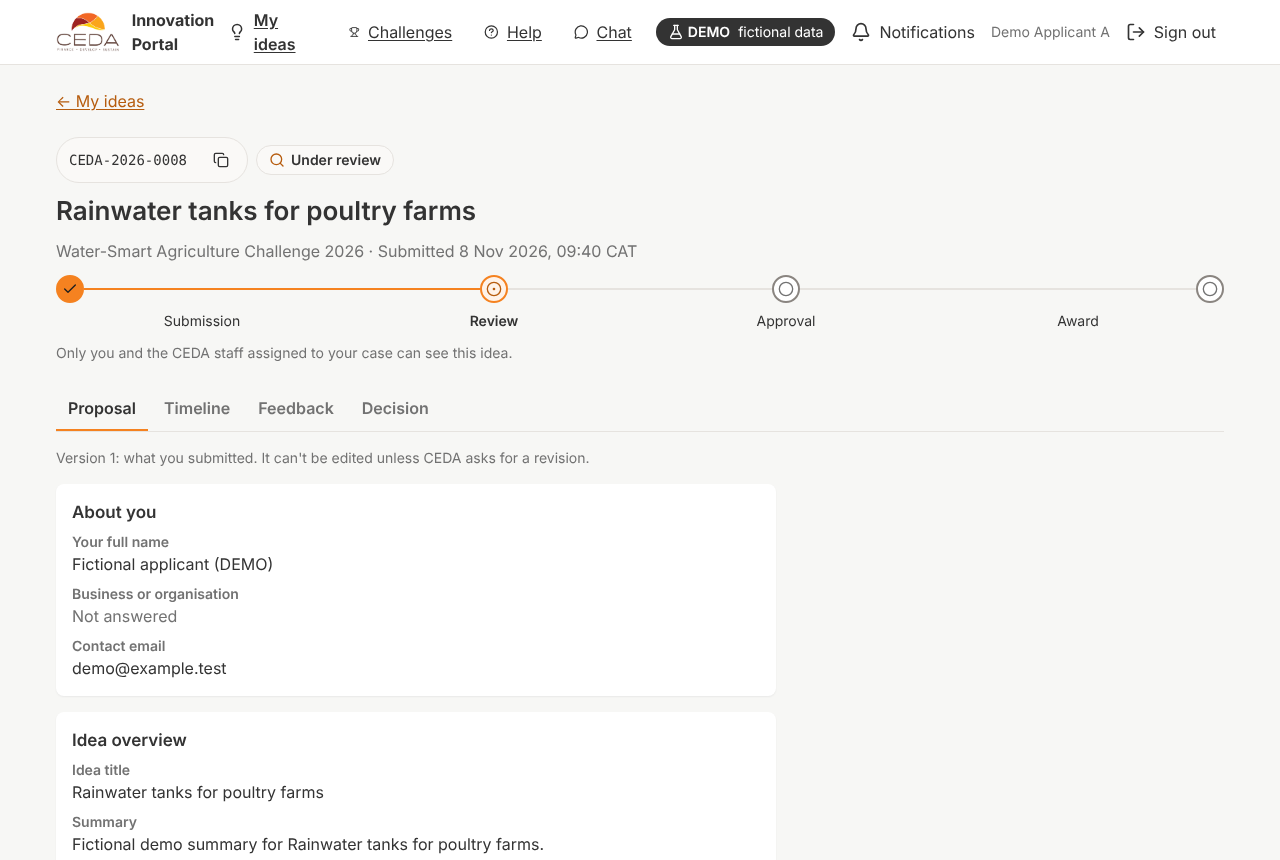
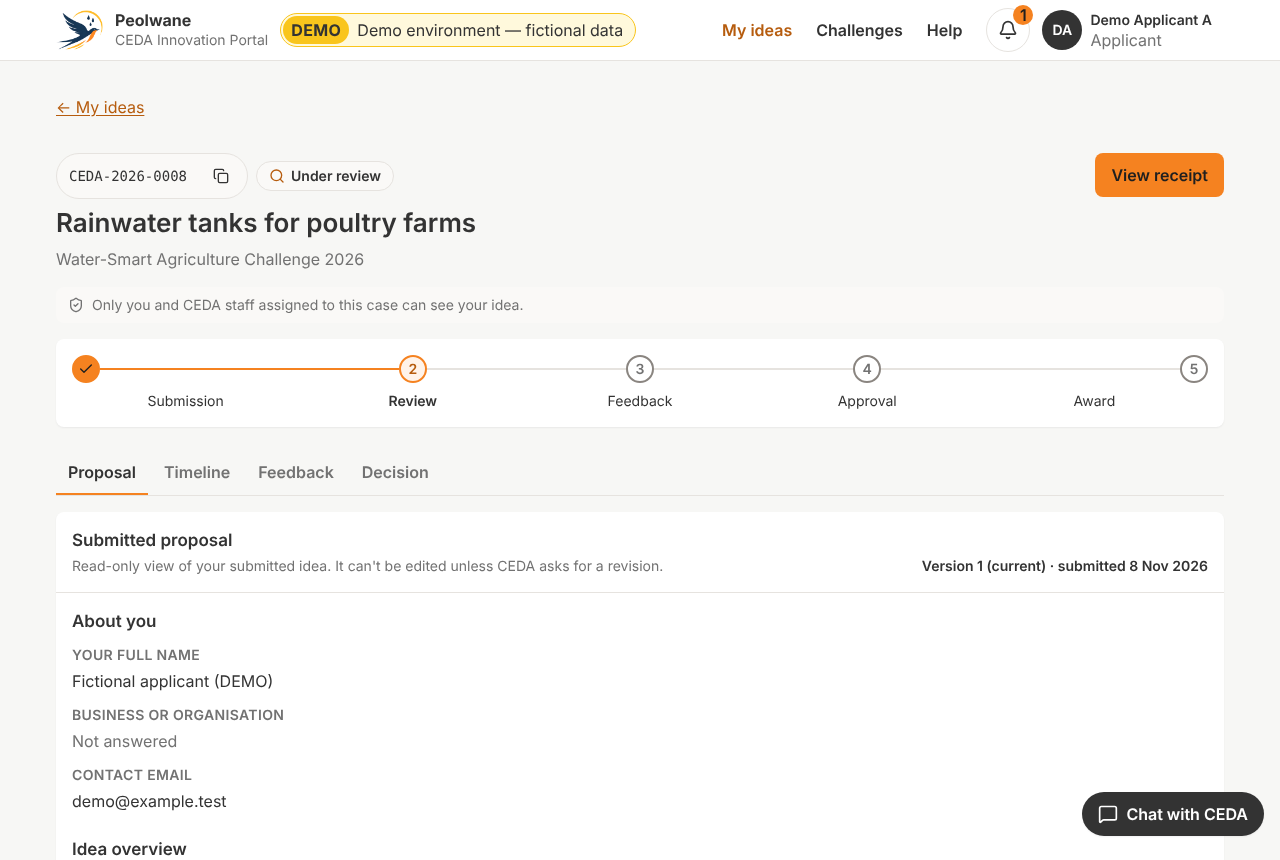
docs(submission): Peolwane line, new screenshots, hosted journey results, Peolwane AI
Claude-Session: https://claude.ai/code/session_01D4AsZS5iNugk6ixM5FfLmT

diff --git a/docs/submission/technical-proposal.md b/docs/submission/technical-proposal.md
@@ -1,8 +1,10 @@
-# CEDA Innovation Portal: technical proposal
+# Peolwane · CEDA Innovation Portal: technical proposal
 
-**Team:** Sandra (UI/UX), Obvious (frontend), Stacey (backend and database), Sylvain (integration, testing and documentation) · **Version:** draft 1, 20 Nov 2026 · **Answers:** backlog DOC-01
+**Team:** Sandra (UI/UX, until 21 Nov), Obvious (frontend), Stacey (backend and database), Sylvain (integration, testing and documentation), ABM (frontend; acting UI/UX from 21 Nov) · **Version:** draft 1, 20 Nov 2026 · **Answers:** backlog DOC-01
 **Status:** Draft for team review. It becomes final at the release (22 Nov 2026), when every **[confirm at release]** mark is resolved against the judging build. The proposal makes no claim that `docs/testing/claim-register.md` does not show as Passed.
 
+> **Peolwane is the portal's name; it is built for CEDA's Innovation Fund.** On screen it appears as "Peolwane · CEDA Innovation Portal".
+>
 > This is a demonstration prototype with fictional data only. It is designed with reference to Botswana's Data Protection Act, 2024; it makes no claim of compliance.
 
 ## 1. Summary
@@ -115,13 +117,13 @@ A typical challenge portal ends a weak application with a decision and a paragra
 3. Each assigned reviewer **verifies** each task on the V2 scorecard (Verified or Not verified, with a note). Version 1's scores stay with version 1, so progress is visible and fair.
 4. Reports can then show something most portals can't: how many ideas improved after feedback and reached a later stage.
 
-It is backed by a side-by-side comparison of V1 and V2 (INN-01) and a rule-based completeness helper on the form (INN-03). **No proposal data goes to any external AI service (D-25).** All four steps are built in the screens, and the database enforces them (C-13).
+It is backed by a side-by-side comparison of V1 and V2 (INN-01) and a rule-based completeness helper on the form (INN-03). **No proposal or case data goes to any external AI service (D-25, narrowed by BCR-004).** The one AI feature is **Peolwane AI**, an optional voice-first site-help assistant (Leseding AI Engine, Google Gemini) that receives only what a person types or says in its panel, never page, form or account data; it is shown only when its key is configured. Whether it is live on the judging build is **[confirm at release]**. All four steps are built in the screens, and the database enforces them (C-13).
 
 ## 9. Security and privacy
 
 - **Authentication:** Supabase Auth with verified email, a 12-character minimum password, a neutral "if an account exists" recovery message, rate limits and TOTP for staff. Seeded demo staff accounts are exempt behind a setting so that judges can sign in (D-07); it is switched off for any real use.
 - **Authorisation:** described in section 5, and tested from the side of the person being refused.
-- **Transport and headers:** HTTPS only (HSTS), a Content-Security-Policy that allows only our origin and Supabase, `X-Frame-Options: DENY`, `nosniff`, and strict Referrer and Permissions policies. An automated browser test confirmed all six headers on the deployed staging site (24 passed, 16 Nov, E2E run 44051061592).
+- **Transport and headers:** HTTPS only (HSTS), a Content-Security-Policy that allows only our origin, Supabase and, for Peolwane AI, the Leseding AI Engine (no third-party script), `X-Frame-Options: DENY`, `nosniff`, and strict Referrer and Permissions policies. An automated browser test confirmed all six headers on the deployed staging site (24 passed, 16 Nov, E2E run 44051061592).
 - **Secrets:** no credentials in the repository (a secret scan runs on every PR). The browser holds only the public key, and the service-role key never reaches it. Demo passwords come from the environment (D-17).
 - **Dependencies:** an audit on every PR. One high-severity advisory affects build tooling only and doesn't ship; it is recorded with a reason (ADR-001).
 - **Privacy:** purpose, access, proposed retention, processors and breach handling are described in `docs/submission/data-handling-note.md`. It is designed with reference to the Data Protection Act, 2024, with no compliance claim (D-18). Data leaves Botswana because no African Supabase region exists; this is recorded as a limitation for real use.
@@ -134,7 +136,7 @@ It is backed by a side-by-side comparison of V1 and V2 (INN-01) and a rule-based
 - A **two-connection concurrency test** for double submits.
 - **Vitest** for the frontend logic.
 - **Playwright** browser checks at 360 and 1280 px, and a security-header check against the deployed site.
-- A **real-backend browser journey**: **[confirm at release]** its result.
+- A **real-backend browser journey**: the **full main journey, steps 0–17**, passed through the real screens against the hosted staging project on 21 Nov ([run 44909107002](https://github.com/SylvainKG/CEDA-Innovation-Portal/actions/runs/44909107002), 6 passed; app built in CI), between a snapshot and a verified exact reset. Against the **deployed** staging site, the read-only part passed ([run 44953549649](https://github.com/SylvainKG/CEDA-Innovation-Portal/actions/runs/44953549649), 4 passed). Registration of a new address is Not run (no SMTP).
 
 Every claim is in `docs/testing/claim-register.md`, with its evidence and what is still Not run.
 
@@ -175,4 +177,6 @@ Every claim is in `docs/testing/claim-register.md`, with its evidence and what i
 | Region comparison with Mumbai | **Not run** |
 | Restore into a full Supabase project, and file storage backup | **Not run** |
 | Settings screens for the review quorum and the demo two-step exemption | **Not built:** stored settings changed by the backend team |
-| Hosted browser journey result, design review, plan and contact details | **[confirm at release]** |
+| Hosted browser journey | **Passed** on staging: full journey [run 44909107002](https://github.com/SylvainKG/CEDA-Innovation-Portal/actions/runs/44909107002); read-only on the deployed site [run 44953549649](https://github.com/SylvainKG/CEDA-Innovation-Portal/actions/runs/44953549649) |
+| Peolwane AI live on the judging build (Leseding key and allowlist) | **[confirm at release]** |
+| Design review, plan and contact details | **[confirm at release]** |

diff --git a/docs/submission/user-manual.md b/docs/submission/user-manual.md
@@ -1,8 +1,10 @@
-# User manual: CEDA Innovation Portal
+# User manual: Peolwane · CEDA Innovation Portal
 
 **Owner:** Sylvain (documentation lead) · **Status:** Draft, finalised at the release (22 Nov 2026) · **Answers:** backlog DOC-02 (role manual)
 Screens still being built are marked **[confirm at release]**; that line is checked against the judging build before upload. For a short tour with the demo accounts, see `docs/submission/judge-guide.md`.
 
+> **Peolwane is the portal's name; it is built for CEDA's Innovation Fund.** On screen it appears as "Peolwane · CEDA Innovation Portal".
+>
 > Demonstration with fictional data. Wording marked **Sample** (privacy notice, declaration, FAQs, contacts) is a placeholder until CEDA supplies its own.
 
 ## Contents
@@ -30,6 +32,8 @@ Screens still being built are marked **[confirm at release]**; that line is chec
 
 **Notifications.** The bell in the header shows how many updates are unread; **Notifications** lists them. The count refreshes every so often while you are signed in. **Email alerts** are optional: switch them on or off on the Notifications page **[confirm at release]**. In this demonstration they are **Simulated** (queued but not sent).
 
+**Peolwane AI** **[confirm at release]**. The **Peolwane AI** button at the bottom right of every page opens an assistant for questions about using the portal. It starts in **Voice**: tap the microphone, speak, tap again, and the answer is shown and spoken. Choose **Text** to type instead. It only receives what you say or type in its panel, never your ideas or account, so don't share personal details with it. **Esc** closes it.
+
 **Help.** **Help** holds the FAQs, regulatory contacts and how to report a problem. All times are Gaborone time (CAT).
 
 **Staff home.** Staff accounts open on **Home**: counts for your role (for example ideas awaiting screening, reviews to do, chats waiting) and a list of what to do next. Each count and item links to the screen where you act.
@@ -48,11 +52,11 @@ Screens still being built are marked **[confirm at release]**; that line is chec
 
 **Your receipt.** You get a reference such as `CEDA-2026-0009`, the version and the time received. Keep the reference. If the screen says **"Not confirmed yet"**, your connection dropped; choose **Check status**. Submitting again is safe and can never create a second idea.
 
-**Track your idea.** **My ideas** shows each idea's status (for example Submitted, Under review, Action required, Approved, Awarded) and a timeline of the five public stages: **Submission → Review → Feedback → Approval → Award**. The Feedback stage appears only if CEDA asked you something. "Action required" means CEDA is waiting for you, with a deadline.
+**Track your idea.** **My ideas** (it greets you by name) shows each idea's status (for example Submitted, Under review, Action required, Approved, Awarded) and a timeline of the five public stages: **Submission → Review → Feedback → Approval → Award**. The Feedback stage appears only if CEDA asked you something. "Action required" means CEDA is waiting for you, with a deadline.
 
 **When CEDA asks you something.**
 - **Clarification:** answer the question in a short reply. No new version is created.
-- **Revision (Feedback Roadmap):** CEDA lists specific tasks. Choose **Revise your idea**, update your answers (replacing files in version 2 isn't available in this version), and for **each task** say whether you **Addressed** it, with a short explanation (up to 500 characters). Add a change note, then submit **version 2**. Your reference stays the same, and version 1 is kept.
+- **Revision (Feedback Roadmap):** CEDA lists specific tasks. Choose **Revise your idea**, update your answers (replacing files in version 2 isn't available in this version), and for **each task** say whether you **Addressed** it, with a short explanation (up to 500 characters). Then choose **Review changes**: add a note on what changed, accept the declaration and submit **version 2**. Your reference stays the same, and version 1 is kept.
 - After the deadline you can't reply until CEDA extends it.
 
 **Outcome.** When CEDA publishes the decision you see **Approved** or **Not approved**, the reason and next steps. An **award**, if any, appears after approval.

diff --git a/docs/submission/judge-guide.md b/docs/submission/judge-guide.md
@@ -1,8 +1,10 @@
-# Judge guide: CEDA Innovation Portal (demonstration)
+# Judge guide: Peolwane · CEDA Innovation Portal (demonstration)
 
 **Owner:** Sylvain (documentation lead) · **Status:** Draft, finalised at the release (22 Nov 2026) · **Answers:** DOC-02, REL-01, D-07, D-17
 Items marked **[confirm at release]** are filled in or checked on the release build. Nothing here may claim more than the claim register (`docs/testing/claim-register.md`) shows as Passed.
 
+> **Peolwane is the portal's name; it is built for CEDA's Innovation Fund.** On screen it appears as "Peolwane · CEDA Innovation Portal".
+>
 > This is a **demonstration with fictional data only.** Every person, organisation, idea and contact is invented and labelled DEMO or Sample. Please don't enter real personal data.
 
 ## 1. Access
@@ -47,7 +49,7 @@ The demo data holds eight earlier cases (`CEDA-2026-0001` to `0008`), so **your 
 | 6 | `admin` | The case → **Record award** (for example BWP 250,000.50) | The applicant sees the award |
 | 7 | `applicant.a` | My ideas → the idea | The stage timeline, decision, award and next steps |
 
-Every step above runs through the screens. Each step was also verified against the hosted backend through the API (claim C-15); the browser run against the hosted backend is **[confirm at release]**.
+Every step above runs through the screens. Each step was also verified against the hosted backend through the API, and the **full journey passed through the real screens against the hosted backend** on 21 Nov ([run 44909107002](https://github.com/SylvainKG/CEDA-Innovation-Portal/actions/runs/44909107002); claim C-15). Against the deployed site, the read-only part passed ([run 44953549649](https://github.com/SylvainKG/CEDA-Innovation-Portal/actions/runs/44953549649)).
 
 Also worth trying:
 - **Revision and roadmap:** as `screening`, ask for a revision with tasks on a case. The applicant answers each task in version 2, each reviewer verifies each task, and version 1's scores stay with version 1 (C-13). Staff can put the two versions side by side on the case page (**Compare versions**), with each change named.
@@ -55,6 +57,7 @@ Also worth trying:
 - **Live chat:** as `applicant.a`, open **Chat** (09:00–16:00 CAT on working days; outside those hours it says it is closed); as `consultant`, answer it in the **Support inbox**.
 - **Administration:** as `admin`, open **Users and roles** (grant or remove a role with a reason; invite staff by email, which is Simulated), **Challenges** (edit a challenge, its application form and its rubric; weights must total 100%), **Content** (FAQs, contacts, notices; only published pages are public) and **Chat settings** (opening hours and closures). Every change is recorded in the audit log.
 - **Notifications:** the bell in the header shows unread notifications; **Notifications** lists them, and the email alerts setting there is stored, but emails are Simulated.
+- **Peolwane AI** **[confirm at release]**: the button at the bottom right of every page opens a voice-first assistant (tap the microphone, speak, tap again; or switch to Text). It answers questions about using the portal and never sees accounts or ideas.
 - **Clarification:** case `CEDA-2026-0003` has an open question for `applicant.e`. A reply returns the case to its stage without creating a new version.
 
 ## 3. Access control you can check yourself

diff --git a/CHANGELOG.md b/CHANGELOG.md
@@ -4,6 +4,13 @@ Classification follows the evidence-led skill: `feature`, `refactor`, `repair`, 
 
 ## [Unreleased]
 
+- `docs` **Submission documents brought up to date for the release** (judge guide, user manual, technical proposal):
+  - the line "Peolwane is the portal's name; it is built for CEDA's Innovation Fund" in all three;
+  - the four screenshots retaken with the Peolwane brand, from a mock build, without the development-only role switcher;
+  - the hosted browser journey filled in: the full journey passed on staging (run 44909107002) and the read-only part on the deployed site (run 44953549649);
+  - Peolwane AI, marked [confirm at release] until it is live;
+  - the two-step revise ("Review changes");
+  - the team line in the proposal (ABM; Sandra until 21 Nov).
 - `docs` **Full browser journey on staging recorded in the claim register and phase-05** (`docs/testing/claim-register.md`, `artifacts/phase-05/README.md`; issue #61). Run 44909107002 passed 6/6: the whole main journey, steps 0–17, through the real screens against the hosted project, between Stacey's snapshot and her verified reset. C-15 becomes **Passed (browser on staging)**. C-04, C-12 and C-14 add their browser layer. C-05 and C-13 stay database-layer claims, because the browser run covers only the allowed award path and doesn't re-check V1 scores after V2; the rows say so. Still Not run: registration of a new address (no SMTP) and the journey against the deployed Amplify site.
 - `feat` **Peolwane AI: a voice-first assistant on every page, with text as an option** (`src/features/assistant/`; BCR-004, docs/process/peolwane-ai.md). A button at the bottom right opens a panel: tap the microphone, speak, tap again, and the answer is shown and spoken; or switch to Text and type. It is powered by the Leseding AI Engine's HTTP API (transcribe, streamed chat, speech), called from our own UI, so no third-party script runs on the site. It is only shown when `VITE_LESEDING_BASE` and `VITE_LESEDING_KEY` are set. The CSP adds only `connect-src https://lesedingaiengine.co.bw` and `media-src 'self' blob:`; the microphone is allowed for this site only. The privacy page explains what goes to the service. Claim C-17 is reworded: it depends on BCR-004 narrowing D-25.
 - `docs` **Sandra's design duties handed to ABM** (blueprint D-31, §7.1, §7.2, §8.4; owners of D-34–D-36). Sandra is unavailable and her tasks were not moving before the 22 Nov freeze. ABM is acting UI/UX & Figma lead: the open design decisions, the staging review of each screen against its frame, marking screens Approved, the final snapshots and design reconciliation, and the design owner's sign-off on change requests (approvals from `ABM-IX` only). Obvious stays UI backup. The tracker moves Sandra's open tasks to ABM.
